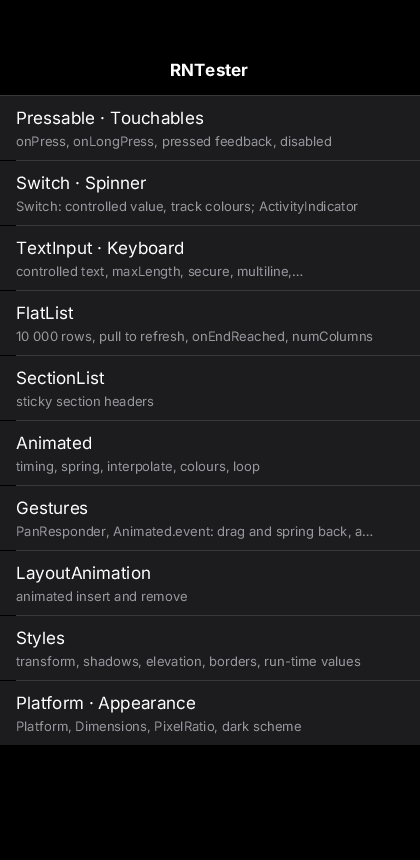
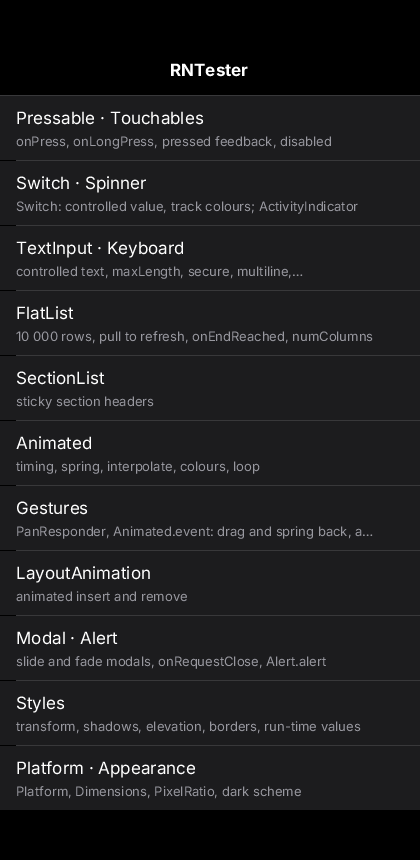
feat(ui): Modal, Alert and Linking in zinc:react-native

Changed region(s): [[0.0, 0.7256, 1.0, 0.9674], [0.7738, 0.7558, 0.8667, 0.786]]

diff --git a/lib/std/react-native.tsx b/lib/std/react-native.tsx
@@ -400,3 +400,78 @@ export function useAnimated(n: A.Node): number {
   return v;
 }
 
+// ---------------------------------------------------------------- Modal, Alert (ZN-367.04); Linking is zinc:react-native/linking (it needs the opener permission)
+export type ModalProps = { visible?: boolean; transparent?: boolean; animationType?: string; onRequestClose?: () => void; onShow?: () => void; children?: () => i32 };
+class ModalState { open: boolean = false; at: A.Value = new A.Value(0); }
+/** A full-screen modal layer above the app: the backdrop is white unless transparent, Escape asks onRequestClose, animationType 'slide' comes up from
+ *  the bottom and 'fade' fades in (300 ms). ponytail: it hides at once on close (React Native animates the way out too). */
+export function Modal(p: ModalProps): i32 {
+  const host = useRef<i32>(-1);
+  const st = useRef<ModalState>(new ModalState());
+  const visible = p.visible ?? true;
+  const k = useAnimated(st.current.at);
+  useEffect((): void => {
+    const s = st.current, h = host.current;
+    if (visible && !s.open) {
+      s.open = true;
+      ui.openLayer(h, { modal: true, priority: 1000 });
+      ui.onDismiss(h, (): void => { const f = p.onRequestClose; if (f !== undefined) f(); });
+      if (p.animationType === 'slide' || p.animationType === 'fade') { s.at.setValue(0); A.timing(s.at, { toValue: 1, duration: 300, easing: A.Easing.out(A.Easing.cubic) }).start(); }
+      else s.at.setValue(1);
+      const f = p.onShow; if (f !== undefined) f();
+    } else if (!visible && s.open) { s.open = false; ui.closeLayer(h); }
+  }, [visible ? 1 : 0]);
+  const motion = p.animationType === 'slide' ? new ui.Style(['translateY'], [(1 - k) * height()]) : p.animationType === 'fade' ? new ui.Style(['opacity'], [k]) : NONE;
+  return <View ref={host} style={[{ position: 'absolute', left: 0, top: 0, right: 0, bottom: 0 }, p.transparent === true ? NONE : new ui.Style(['backgroundColor', 'backgroundAlpha'], [0xffffff, 255]),
+    motion, visible ? NONE : new ui.Style(['hidden'], [1])]}>{renderChildren(p.children)}</View>;
+}
+
+export type AlertButton = { text?: string; onPress?: () => void; style?: string };
+class AlertBox { node: i32 = -1; cancel: (() => void) | null = null; }
+const DEFAULT_OK: AlertButton[] = [{ text: 'OK' }];
+/** React Native's Alert.alert as an in-app dialog over the app (a modal layer): the buttons close it, then call their onPress; Escape presses the
+ *  'cancel' button (or just closes when there is none and the alert is not a choice). */
+export class Alert {
+  static alert(title: string, message: string = '', buttons: AlertButton[] = DEFAULT_OK): void {
+    const root = ui.rootNode();
+    if (root < 0) {   // called before the app is mounted (an effect of the first render): shown on the first frame that has a root
+      const later: () => void = (): void => { if (ui.rootNode() < 0) return; ui.removeStepper(later); Alert.alert(title, message, buttons); };
+      ui.addStepper(later);
+      return;
+    }
+    const box = new AlertBox();
+    const close = (): void => { ui.closeLayer(box.node); ui.remove(root, box.node); };
+    const shade = ui.createNode(ui.VIEW);
+    ui.setStyles(shade, [new ui.Style(['position', 'left', 'top', 'right', 'bottom', 'alignItems', 'justifyContent', 'backgroundColor', 'backgroundAlpha'], [1, 0, 0, 0, 0, 1, 1, 0x000000, 90])]);
+    const card = ui.createNode(ui.VIEW);
+    ui.setStyles(card, [new ui.Style(['width', 'borderRadius', 'backgroundColor', 'backgroundAlpha', 'paddingTop'], [270, 14, 0xf2f2f2, 255, 18])]);
+    const t = ui.createText(title);
+    ui.setStyles(t, [new ui.Style(['fontSize', 'fontWeight', 'textAlign', 'paddingLeft', 'paddingRight', 'color'], [17, 1, 1, 16, 16, 0x000000])]);
+    ui.insert(card, t, -1);
+    if (message !== '') {
+      const m = ui.createText(message);
+      ui.setStyles(m, [new ui.Style(['fontSize', 'textAlign', 'paddingLeft', 'paddingRight', 'marginTop', 'color'], [13, 1, 16, 16, 4, 0x000000])]);
+      ui.insert(card, m, -1);
+    }
+    const row = ui.createNode(ui.VIEW);
+    ui.setStyles(row, [new ui.Style(['flexDirection', 'marginTop', 'borderTopWidth', 'borderColor'], [buttons.length === 2 ? 1 : 0, 18, 1, 0xc6c6c8])]);
+    for (const b of buttons) {
+      const btn = ui.createNode(ui.VIEW);
+      ui.setStyles(btn, [new ui.Style(['grow', 'height', 'alignItems', 'justifyContent'], [1, 44, 1, 1])]);
+      const label = ui.createText(b.text ?? 'OK');
+      ui.setStyles(label, [new ui.Style(['fontSize', 'fontWeight', 'color'], [17, b.style === 'cancel' ? 1 : 0, b.style === 'destructive' ? 0xff3b30 : 0x007aff])]);
+      ui.insert(btn, label, -1);
+      const press = (): void => { close(); const f = b.onPress; if (f !== undefined) f(); };
+      if (b.style === 'cancel') box.cancel = press;
+      ui.listen(btn, press);
+      ui.insert(row, btn, -1);
+    }
+    ui.insert(card, row, -1);
+    ui.insert(shade, card, -1);
+    box.node = shade;
+    ui.insert(root, shade, -1);
+    ui.openLayer(shade, { modal: true, priority: 2000 });
+    ui.onDismiss(shade, (): void => { const c = box.cancel; if (c !== null) (c as () => void)(); else if (buttons.length <= 1) close(); });
+  }
+}
+

diff --git a/examples/rn-tester/src/pages/dialogs.tsx b/examples/rn-tester/src/pages/dialogs.tsx
@@ -1,0 +1,53 @@
+// Modal (slide and fade, onRequestClose on Escape) and Alert.alert (buttons with cancel and destructive styles).
+import { useState, useEffect } from 'zinc:ui/react';
+import { View, Text, Pressable, Modal, Alert, StyleSheet } from 'zinc:react-native';
+import { env } from 'zinc:sys';
+import { Page, Card, Caption, usePalette } from '../kit';
+
+let shown = false;
+export function DialogsPage() {
+  const c = usePalette();
+  const [slide, setSlide] = useState(false);
+  const [fade, setFade] = useState(false);
+  const [answer, setAnswer] = useState('-');
+  useEffect((): void => {   // RN_TESTER_ALERT=1: the dialog open for the screenshot (after the first render: the app is mounted)
+    if (!shown && env('RN_TESTER_ALERT') === '1') { shown = true; Alert.alert('Delete draft?', 'This cannot be undone.', [{ text: 'Cancel', style: 'cancel' }, { text: 'Delete', style: 'destructive' }]); }
+  }, []);
+  return <Page>
+    <Card title="Modal">
+      <Pressable style={[s.button, { backgroundColor: c.accent }]} onPress={() => setSlide(true)}><Text style={s.buttonText}>animationType slide</Text></Pressable>
+      <Pressable style={[s.button, { backgroundColor: c.accent }]} onPress={() => setFade(true)}><Text style={s.buttonText}>transparent, fade</Text></Pressable>
+      <Caption text="Escape asks onRequestClose." />
+    </Card>
+    <Card title="Alert.alert">
+      <Pressable style={[s.button, { backgroundColor: 0xff3b30 }]} onPress={() => Alert.alert('Delete draft?', 'This cannot be undone.', [
+        { text: 'Cancel', style: 'cancel', onPress: () => setAnswer('cancel') }, { text: 'Delete', style: 'destructive', onPress: () => setAnswer('delete') }])}>
+        <Text style={s.buttonText}>Two buttons</Text>
+      </Pressable>
+      <Pressable style={[s.button, { backgroundColor: c.accent }]} onPress={() => Alert.alert('Saved', 'Your changes are stored.')}><Text style={s.buttonText}>One button</Text></Pressable>
+      <Caption text={`last answer: ${answer}`} />
+    </Card>
+    <Modal visible={slide} animationType="slide" onRequestClose={() => setSlide(false)}>
+      <View style={[s.sheet, { backgroundColor: c.bg }]}>
+        <Text style={[s.title, { color: c.ink }]}>A slide-up modal</Text>
+        <Pressable style={[s.button, { backgroundColor: c.accent }]} onPress={() => setSlide(false)}><Text style={s.buttonText}>Close</Text></Pressable>
+      </View>
+    </Modal>
+    <Modal visible={fade} transparent={true} animationType="fade" onRequestClose={() => setFade(false)}>
+      <View style={s.dim}>
+        <View style={[s.card, { backgroundColor: c.card }]}>
+          <Text style={[s.title, { color: c.ink }]}>A transparent modal</Text>
+          <Pressable style={[s.button, { backgroundColor: c.accent }]} onPress={() => setFade(false)}><Text style={s.buttonText}>Close</Text></Pressable>
+        </View>
+      </View>
+    </Modal>
+  </Page>;
+}
+const s = StyleSheet.create({
+  button: { height: 44, borderRadius: 10, alignItems: 'center', justifyContent: 'center' },
+  buttonText: { color: '#ffffff', fontSize: 17, fontWeight: '600' },
+  sheet: { flex: 1, paddingTop: 80, padding: 24, gap: 24 },
+  title: { fontSize: 22, fontWeight: '600' },
+  dim: { flex: 1, backgroundColor: 'rgba(0, 0, 0, 0.4)', alignItems: 'center', justifyContent: 'center' },
+  card: { width: 300, borderRadius: 16, padding: 24, gap: 16 },
+});

diff --git a/next/tests/golden/react-native-modal/main.tsx b/next/tests/golden/react-native-modal/main.tsx
@@ -1,0 +1,36 @@
+// zinc:react-native Modal and Alert (ZN-367.04): a slide-up Modal shows over the app as a modal layer, animates in, and Escape asks onRequestClose, which
+// hides it; Alert.alert shows a dialog whose buttons close it and call their onPress, Escape presses its cancel button.
+import { useState } from 'zinc:ui/react';
+import { render } from 'zinc:ui/react';
+import * as ui from 'zinc:ui';
+import { View, Text, Modal, Alert } from 'zinc:react-native';
+import { quit } from 'zinc:gfx';
+
+const log: string[] = [];
+let open: (v: boolean) => void = (v: boolean): void => {};
+function App() {
+  const [visible, setVisible] = useState(false);
+  open = setVisible;
+  return <View style={{ flex: 1, backgroundColor: '#f2f2f7', padding: 20 }}>
+    <Text>app</Text>
+    <Modal visible={visible} animationType="slide" onRequestClose={() => { log.push('request close'); setVisible(false); }} onShow={() => { log.push('show'); }}>
+      <View style={{ padding: 40 }}><Text>inside the modal</Text></View>
+    </Modal>
+  </View>;
+}
+function y(text: string): number { const h = ui.find(text); return h < 0 ? -1 : Math.round(ui.screenBox(h)[1]); }
+let f = 0;
+render(App, 0xf2f2f7, (dt: number) => {
+  f++;
+  if (f === 2) { console.log(`closed: modal text ${y('inside the modal')} hidden`); open(true); }
+  if (f === 6) console.log(`sliding: ${y('inside the modal') > 40 ? 'below its place' : 'already up'}`);
+  if (f === 40) { console.log(`open: ${log.join(' ')}, text at ${y('inside the modal')}`); ui.sendKey('Escape'); }
+  if (f === 42) { console.log(`after Escape: ${log.join(' ')}`); log.length = 0;
+    Alert.alert('Delete draft?', 'This cannot be undone.', [{ text: 'Cancel', style: 'cancel', onPress: () => { log.push('cancel'); } }, { text: 'Delete', style: 'destructive', onPress: () => { log.push('delete'); } }]); }
+  if (f === 44) { console.log(`alert shown: ${ui.find('Delete draft?') >= 0}`); ui.click(ui.find('Delete')); }
+  if (f === 46) { console.log(`pressed Delete: ${log.join(' ')}, alert gone ${ui.find('Delete draft?') < 0}`); log.length = 0; Alert.alert('Sure?', '', [{ text: 'No', style: 'cancel', onPress: () => { log.push('no'); } }, { text: 'Yes', onPress: () => { log.push('yes'); } }]); }
+  if (f === 48) ui.sendKey('Escape');
+  if (f === 50) { console.log(`Escape on an alert: ${log.join(' ')}, gone ${ui.find('Sure?') < 0}`); Alert.alert('Saved'); }
+  if (f === 52) { ui.click(ui.find('OK')); }
+  if (f === 54) { console.log(`one-button alert closed by OK: ${ui.find('Saved') < 0}`); quit(); }
+});

diff --git a/lib/std/react-native-linking.ts b/lib/std/react-native-linking.ts
@@ -1,0 +1,25 @@
+// zinc:react-native/linking (ZN-367.04): React Native's Linking over zinc:system's opener and deep links. A module of its own because it needs the
+// "opener" and "deep-link" permissions in zinc.json (zinc:system denies by default); the 'react-native' import alias sends Linking here (ZN-367.05).
+import * as system from 'zinc:system';
+import * as opener from 'zinc:system/opener';
+import * as deeplink from 'zinc:system/deeplink';
+
+export class LinkingEvent { url: string = ''; }
+export class LinkingSubscription { private f: () => void; constructor(f: () => void) { this.f = f; } remove(): void { this.f(); } }
+const urlFns: ((e: LinkingEvent) => void)[] = [];
+let listening = false;
+export class Linking {
+  /** Opens the URL with the system's default app; rejects when zinc.json's "scopes": {"opener": {"allow": [...]}} does not allow it. */
+  static async openURL(url: string): Promise<void> { await opener.openUrl(url); }
+  /** Whether this target can open URLs at all (the scope is checked by openURL). */
+  static async canOpenURL(url: string): Promise<boolean> { return system.supports('opener'); }
+  /** The URL the app was opened with, or '' (React Native: null). */
+  static async getInitialURL(): Promise<string> { const c = deeplink.current(); return c.length > 0 ? c[0] : ''; }
+  /** 'url': a deep link that reaches the running app. */
+  static addEventListener(type: string, f: (e: LinkingEvent) => void): LinkingSubscription {
+    urlFns.push(f);
+    if (!listening) { listening = true; deeplink.onOpen((url: string): void => { const e = new LinkingEvent(); e.url = url; for (const g of urlFns.slice()) g(e); }); }
+    return new LinkingSubscription((): void => { const i = urlFns.indexOf(f); if (i >= 0) urlFns.splice(i, 1); });
+  }
+  static async openSettings(): Promise<void> { await opener.openUrl('app-settings:'); }
+}

diff --git a/examples/rn-tester/src/App.tsx b/examples/rn-tester/src/App.tsx
@@ -8,6 +8,7 @@ import { FlatListPage, SectionListPage } from './pages/lists';
 import { AnimatedPage, GesturesPage, LayoutAnimationPage } from './pages/motion';
 import { StylesPage } from './pages/styles';
 import { PlatformPage } from './pages/platform';
+import { DialogsPage } from './pages/dialogs';
 
 class Entry { id: string; title: string; about: string; constructor(id: string, title: string, about: string) { this.id = id; this.title = title; this.about = about; } }
 const PAGES: Entry[] = [
@@ -19,6 +20,7 @@ const PAGES: Entry[] = [
   new Entry('animated', 'Animated', 'timing, spring, interpolate, colours, loop'),
   new Entry('gestures', 'Gestures', 'PanResponder, Animated.event: drag and spring back, a scroll-driven fade'),
   new Entry('layout', 'LayoutAnimation', 'animated insert and remove'),
+  new Entry('dialogs', 'Modal · Alert', 'slide and fade modals, onRequestClose, Alert.alert'),
   new Entry('styles', 'Styles', 'transform, shadows, elevation, borders, run-time values'),
   new Entry('platform', 'Platform · Appearance', 'Platform, Dimensions, PixelRatio, dark scheme'),
 ];
@@ -34,6 +36,7 @@ function renderMain(id: string, open: (id: string) => void): i32 {
   if (id === 'animated') return <AnimatedPage />;
   if (id === 'gestures') return <GesturesPage />;
   if (id === 'layout') return <LayoutAnimationPage />;
+  if (id === 'dialogs') return <DialogsPage />;
   if (id === 'styles') return <StylesPage />;
   if (id === 'platform') return <PlatformPage />;
   return <Home open={open} />;

diff --git a/next/tests/golden/system/linking/main.ts b/next/tests/golden/system/linking/main.ts
@@ -1,0 +1,15 @@
+// React Native's Linking (zinc:react-native/linking, ZN-367.04) over the system plugin's recording simulator: openURL reaches the opener, a URL outside the
+// opener scope is refused, canOpenURL, getInitialURL, and a deep link reaches the 'url' listener.
+import * as system from 'zinc:system';
+import { Linking, LinkingEvent } from 'zinc:react-native/linking';
+
+async function main(): Promise<void> {
+  await Linking.openURL('https://reactnative.dev');
+  await Linking.openURL('tel:+33123456789');
+  try { await Linking.openURL('ftp://example.com'); console.log('ftp: allowed'); } catch (e) { console.log('ftp:', e.message); }
+  console.log('can open', await Linking.canOpenURL('https://example.com'));
+  console.log('initial', JSON.stringify(await Linking.getInitialURL()));
+  console.log('last', JSON.stringify(system.call('opener.last', {})));
+  const sub = Linking.addEventListener('url', (e: LinkingEvent) => { console.log('url event', e.url); sub.remove(); system.quit(0); });
+}
+main();

diff --git a/next/tests/golden/react-native-lists/main.tsx b/next/tests/golden/react-native-lists/main.tsx
@@ -20,7 +20,7 @@ function App(): i32 {
   return <View style={{ flex: 1, flexDirection: 'row', backgroundColor: '#ffffff' }}>
     <View style={{ width: 180 }}>
       <FlatList data={items} renderItem={(x: ListRenderItemInfo<Item>) => <View style={{ height: 40, justifyContent: 'center' }}><Text>{x.item.label}</Text></View>}
-        keyExtractor={(it: Item, i: number) => `${it.id}`} ItemSeparatorComponent={() => <View style={{ height: 1, backgroundColor: '#dddddd' }} />}
+        keyExtractor={(it: Item) => `${it.id}`} ItemSeparatorComponent={() => <View style={{ height: 1, backgroundColor: '#dddddd' }} />}
         ListHeaderComponent={() => <Text>header</Text>} ListFooterComponent={() => <Text>footer</Text>}
         getItemLayout={(d: Item[], i: number) => { return { length: 41, offset: 41 * i, index: i }; }}
         onEndReached={() => { log.push('end reached'); }} onEndReachedThreshold={0.5}

diff --git a/lib/std/ui.ts b/lib/std/ui.ts
@@ -4176,6 +4176,8 @@ function dumpNode(h: i32, depth: i32, out: string[]): void {
 /** Draw commands the last painted frame recorded (tests assert what a style costs: a ring is one border). */
 let lastCommands: i32 = 0;
 export function lastFrameCommands(): i32 { return lastCommands; }
+/** The mounted root (-1 before mount): where a program hangs nodes made outside its tree (an alert). */
+export function rootNode(): i32 { return root; }
 export function setRoot(h: i32): void {
   root = h;
   layoutDirty = true;

diff --git a/next/src/frontend/modules.cpp b/next/src/frontend/modules.cpp
@@ -1323,7 +1323,7 @@ struct Loader {
       if (spec == "zinc:telemetry") return load(spec, telemetryModuleSource());
       if (spec == "zinc:platform") return load(spec, platformModuleSource((std::filesystem::path(stdRoot.empty() ? "." : stdRoot).parent_path().parent_path() / "targets" / "capabilities.json").string()));
       if (const char* src = hostModuleSource(spec)) return load(spec, src);
-      static const std::map<std::string, std::string> kStd = {{"zinc:ui", "ui.ts"}, {"zinc:web", "web.ts"}, {"zinc:web/fetch", "fetch.ts"}, {"zinc:subtle", "subtle.ts"}, {"zinc:ui/solid", "solid.ts"}, {"zinc:ui/react", "react.ts"}, {"zinc:ui/kit", "kit/index.ts"}, {"zinc:icons", "icons.tsx"}, {"zinc:ui/animated", "animated.ts"}, {"zinc:react-native", "react-native.tsx"}, {"zinc:ui/nuxt", "nuxt/index.ts"},
+      static const std::map<std::string, std::string> kStd = {{"zinc:ui", "ui.ts"}, {"zinc:web", "web.ts"}, {"zinc:web/fetch", "fetch.ts"}, {"zinc:subtle", "subtle.ts"}, {"zinc:ui/solid", "solid.ts"}, {"zinc:ui/react", "react.ts"}, {"zinc:ui/kit", "kit/index.ts"}, {"zinc:icons", "icons.tsx"}, {"zinc:ui/animated", "animated.ts"}, {"zinc:react-native", "react-native.tsx"}, {"zinc:react-native/linking", "react-native-linking.ts"}, {"zinc:ui/nuxt", "nuxt/index.ts"},
                                                               {"zinc:signals", "signals.ts"}, {"zinc:path", "path.ts"}, {"zinc:assert", "assert.ts"}, {"zinc:system", "system/index.ts"},
                                                               {"zinc:system/notification", "system/notification.ts"}, {"zinc:system/menu", "system/menu.ts"}, {"zinc:system/tray", "system/tray.ts"}, {"zinc:system/dialog", "system/dialog.ts"}, {"zinc:system/window", "system/window.ts"},
                                                               {"zinc:system/shortcut", "system/shortcut.ts"}, {"zinc:system/instance", "system/instance.ts"}, {"zinc:system/deeplink", "system/deeplink.ts"}, {"zinc:system/autostart", "system/autostart.ts"},
@@ -3077,6 +3077,7 @@ std::string_view stdModuleFile(std::string_view spec) {
   if (spec == "zinc:icons") return "icons.tsx";
   if (spec == "zinc:ui/animated") return "animated.ts";
   if (spec == "zinc:react-native") return "react-native.tsx";
+  if (spec == "zinc:react-native/linking") return "react-native-linking.ts";
   if (spec == "zinc:ui/nuxt") return "nuxt/index.ts";
   if (spec == "zinc:signals") return "signals.ts";
   if (spec == "zinc:path") return "path.ts";

diff --git a/next/backlog/tasks/zn-367.04 - zinc-react-native-Modal-Alert-Linking.md b/next/backlog/tasks/zn-367.04 - zinc-react-native-Modal-Alert-Linking.md
@@ -1,9 +1,10 @@
 ---
 id: ZN-367.04
 title: 'zinc:react-native: Modal, Alert, Linking'
-status: Backlog
+status: Done
 assignee: []
 created_date: '2026-10-08 18:12'
+updated_date: '2026-10-08 20:17'
 labels:
   - ui
   - rn
@@ -22,6 +23,14 @@ Modal (visible, transparent, animationType none/slide/fade, onRequestClose on Es
 
 ## Acceptance Criteria
 <!-- AC:BEGIN -->
-- [ ] #1 Modal shows, animates and closes on Escape with onRequestClose (test)
-- [ ] #2 Alert buttons call their onPress; Linking.openURL reaches the opener (test with a fake opener)
+- [x] #1 Modal shows, animates and closes on Escape with onRequestClose (test)
+- [x] #2 Alert buttons call their onPress; Linking.openURL reaches the opener (test with a fake opener)
 <!-- AC:END -->
+
+## Implementation Notes
+
+<!-- SECTION:NOTES:BEGIN -->
+usage: n/a
+Done: Modal (zinc:ui modal layer, transparent, animationType slide / fade through Animated, onRequestClose on Escape, onShow), Alert.alert (an iOS-like dialog as a modal layer built from zinc:ui nodes; buttons close and call onPress, cancel / destructive styles, Escape presses cancel, an alert before mount waits for the root), ui.rootNode(); Linking in its own module zinc:react-native/linking (openURL, canOpenURL, getInitialURL, addEventListener 'url', openSettings) because zinc:system/opener and deeplink need their permissions. Tests: tests/t1/react_native_modal.sh; tests/golden/system/linking under system_sim (interpreter and AOT, the sim's opener and deep-link events). Compiler fix on the way (70e62e5a): a closure made in its variable's own initializer captured garbage in a function. rn-tester gains a Modal · Alert page (screenshot with the alert open). tests/run --changed 47/47 (react_native_lists golden updated to the one-parameter keyExtractor of ZN-290), proto-capture 4/4.
+Partial: the modal hides at once on close; no vertical divider between two alert buttons; Alert.prompt missing.
+<!-- SECTION:NOTES:END -->

diff --git a/examples/rn-tester/README.md b/examples/rn-tester/README.md
@@ -3,7 +3,7 @@
 The RNTester of `zinc:react-native` (ZN-386): React Native's components and APIs on Zinc, written like React Native code in the React model, one page
 each. Pages: Pressable and the Touchables, Switch and ActivityIndicator, TextInput and KeyboardAvoidingView, FlatList (10 000 rows, pull to refresh,
 onEndReached, numColumns), SectionList (sticky headers), Animated (timing, spring, interpolate with colours, loop), gestures (PanResponder with
-Animated.event and a spring back, a scroll-driven fade), LayoutAnimation, object styles (transform, shadows and elevation, borderStyle, corner radii, side
+Animated.event and a spring back, a scroll-driven fade), LayoutAnimation, Modal and Alert, object styles (transform, shadows and elevation, borderStyle, corner radii, side
 colours, run-time values) and Platform / Dimensions / PixelRatio / Appearance with a dark scheme.
 
     zinc run examples/rn-tester
@@ -18,4 +18,4 @@ hit-test in their shape but paint upright until the renderer takes a matrix (ZN-
 | ![textinput](screenshots/textinput.png) | ![flatlist](screenshots/flatlist.png) | ![sectionlist](screenshots/sectionlist.png) |
 | ![animated](screenshots/animated.png) | ![gestures](screenshots/gestures.png) | ![layout](screenshots/layout.png) |
 | ![styles](screenshots/styles.png) | ![platform](screenshots/platform.png) | ![home dark](screenshots/home-dark.png) |
-| ![styles dark](screenshots/styles-dark.png) | ![platform dark](screenshots/platform-dark.png) | |
+| ![styles dark](screenshots/styles-dark.png) | ![platform dark](screenshots/platform-dark.png) | ![dialogs](screenshots/dialogs.png) |
